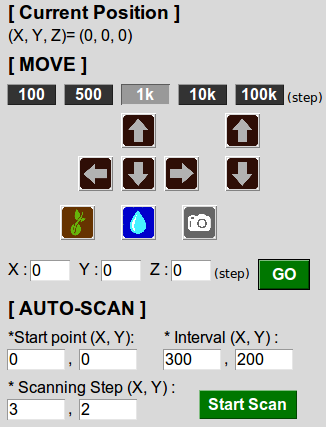
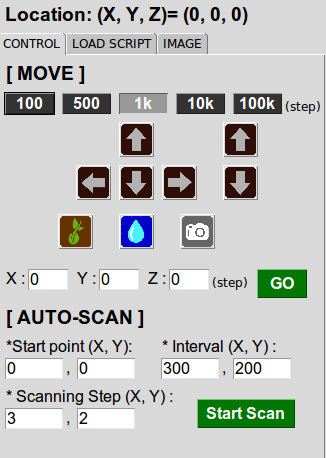
load script function & Time index Added

diff --git a/gui_main.py b/gui_main.py
@@ -137,7 +137,7 @@ class App:
         self.menubar.add_cascade(label="Communication", underline= 0, menu=self.ConnectMenu)
         self.ImgProcess= Tkinter.Menu(self.menubar, tearoff=0)
         self.ImgProcess.add_command(label="Set Background", command= self.plastic_set_background)
-        self.ImgProcess.add_command(label='Otsu Binary', command= self.methond_OtsuBinary)
+        self.ImgProcess.add_command(label='Otsu Binary', command= self.method_OtsuBinary)
         self.menubar.add_cascade(label="Image Processing", underline=0, menu= self.ImgProcess)
         self.root.config(menu= self.menubar)
         self.root.update()
@@ -406,7 +406,7 @@ class App:
         self.lbl_scracth_detect.place(x= self.interval_x, y= self.btn_saveImg.winfo_y()+ self.btn_saveImg.winfo_reqheight()+ self.interval_y)
         self.root.update()
         
-        self.btn_detect= Tkinter.Button(self.tab_imageprocess, text='Binarization', command= self.methond_SimpleBinary,font= myfont12_Bold, width= btn_width, height= btn_height, fg= 'white',activeforeground='white', bg= bgGray,activebackground= bgGray_active)
+        self.btn_detect= Tkinter.Button(self.tab_imageprocess, text='Binarization', command= self.method_SimpleBinary,font= myfont12_Bold, width= btn_width, height= btn_height, fg= 'white',activeforeground='white', bg= bgGray,activebackground= bgGray_active)
         self.btn_detect.place(x= self.lbl_scracth_detect.winfo_x()+ self.lbl_scracth_detect.winfo_reqwidth()+ self.interval_x, y= self.lbl_scracth_detect.winfo_y())
         self.root.update()
         
@@ -680,7 +680,7 @@ class App:
         frame= self.CamMntr.get_frame()
         self.imageProcessor.set_background(frame)
 
-    def methond_OtsuBinary(self):
+    def method_OtsuBinary(self):
         print 'Start Otsu Binary.... '
         #result= self.CamMntr.subract_test()
         self.imageProcessor.set_threshold_size(int(self.scale_threshold_size.get()))
@@ -688,7 +688,7 @@ class App:
         result= self.imageProcessor.get_contour(self.singleframe, True, self.savePath, 'Otsu_Binary_'+self.imagename, 1)
         self.display_panel_singleframe(result)
 
-    def methond_SimpleBinary(self):
+    def method_SimpleBinary(self):
         print 'Start Binarization with ... '
         #result= self.CamMntr.subract_test()
         self.imageProcessor.set_threshold_size(int(self.scale_threshold_size.get()))

diff --git a/class_ImageProcessing.py b/class_ImageProcessing.py
@@ -56,7 +56,7 @@ class contour_detect():
             thresholdedImg = cv2.adaptiveThreshold(blur.copy(),255,cv2.ADAPTIVE_THRESH_GAUSSIAN_C,cv2.THRESH_BINARY,5,0)
 
         result = cv2.cvtColor(thresholdedImg, cv2.COLOR_GRAY2RGB)
-        ctrs, hier = cv2.findContours(thresholdedImg, cv2.RETR_EXTERNAL, cv2.CHAIN_APPROX_SIMPLE)
+        ctrs, hier = cv2.findContours(thresholdedImg, cv2.RETR_TREE, cv2.CHAIN_APPROX_SIMPLE)
 
         ctrs = filter(lambda x : cv2.contourArea(x) > self.threshold_size , ctrs)
 
